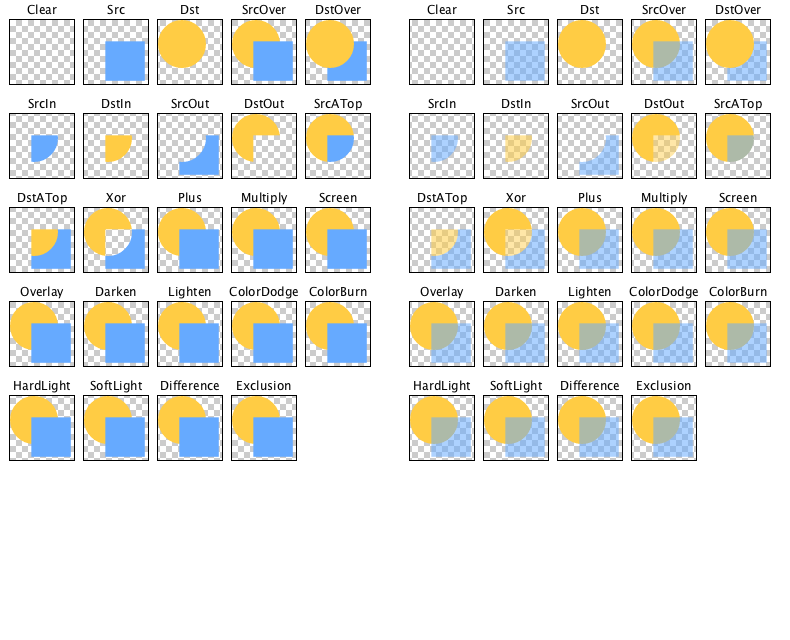
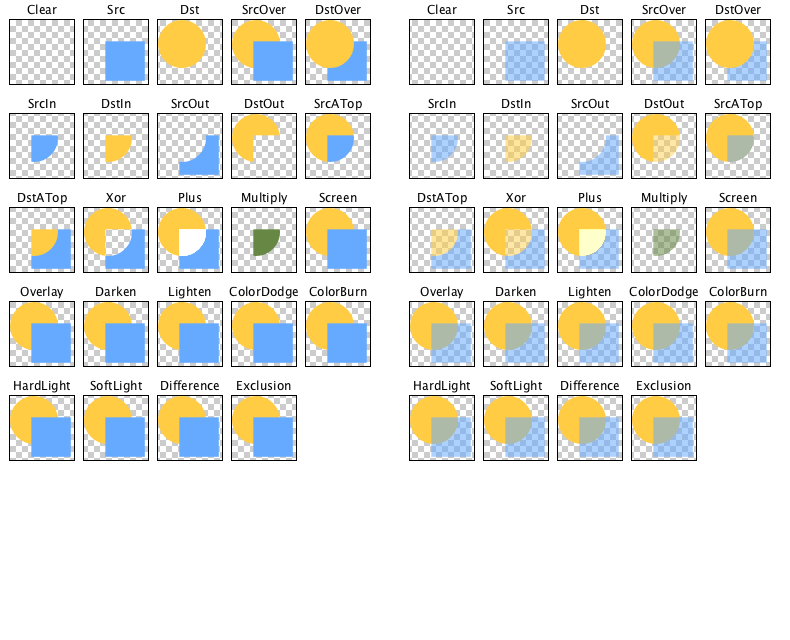
return Coeff for kPlus_Mode and kMultiply_Mode now these work correctly on the gpu

Changed region(s): [[0.2127, 0.3125, 0.3949, 0.4375], [0.7291, 0.3125, 0.881, 0.4375]]

diff --git a/src/core/SkXfermode.cpp b/src/core/SkXfermode.cpp
@@ -448,8 +448,8 @@ static const ProcCoeff gProcCoeffs[] = {
     { dstatop_modeproc, SkXfermode::kIDA_Coeff,     SkXfermode::kSA_Coeff },
     { xor_modeproc,     SkXfermode::kIDA_Coeff,     SkXfermode::kISA_Coeff },
 
-    { plus_modeproc,        CANNOT_USE_COEFF,       CANNOT_USE_COEFF },
-    { multiply_modeproc,    CANNOT_USE_COEFF,       CANNOT_USE_COEFF },
+    { plus_modeproc,    SkXfermode::kOne_Coeff,     SkXfermode::kOne_Coeff },
+    { multiply_modeproc,SkXfermode::kZero_Coeff,    SkXfermode::kSC_Coeff },
     { screen_modeproc,      CANNOT_USE_COEFF,       CANNOT_USE_COEFF },
     { overlay_modeproc,     CANNOT_USE_COEFF,       CANNOT_USE_COEFF },
     { darken_modeproc,      CANNOT_USE_COEFF,       CANNOT_USE_COEFF },
